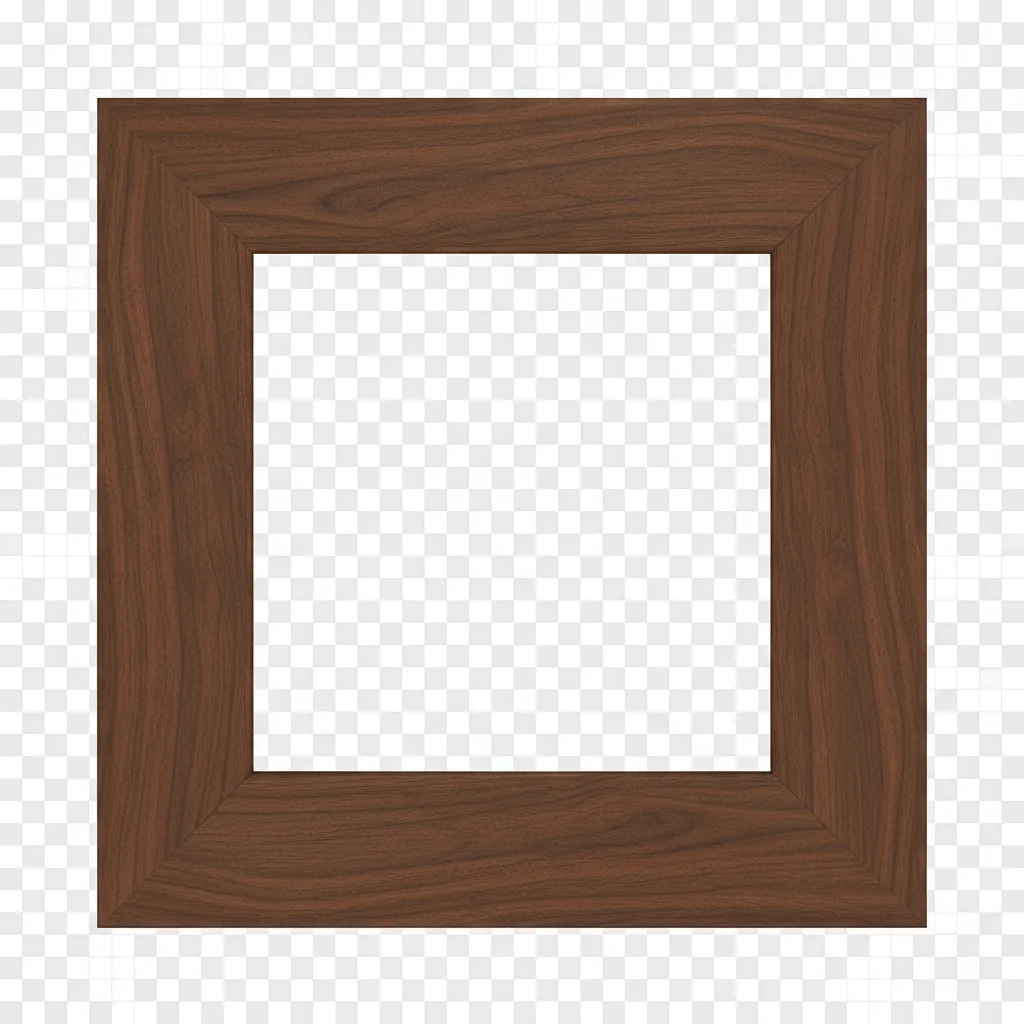
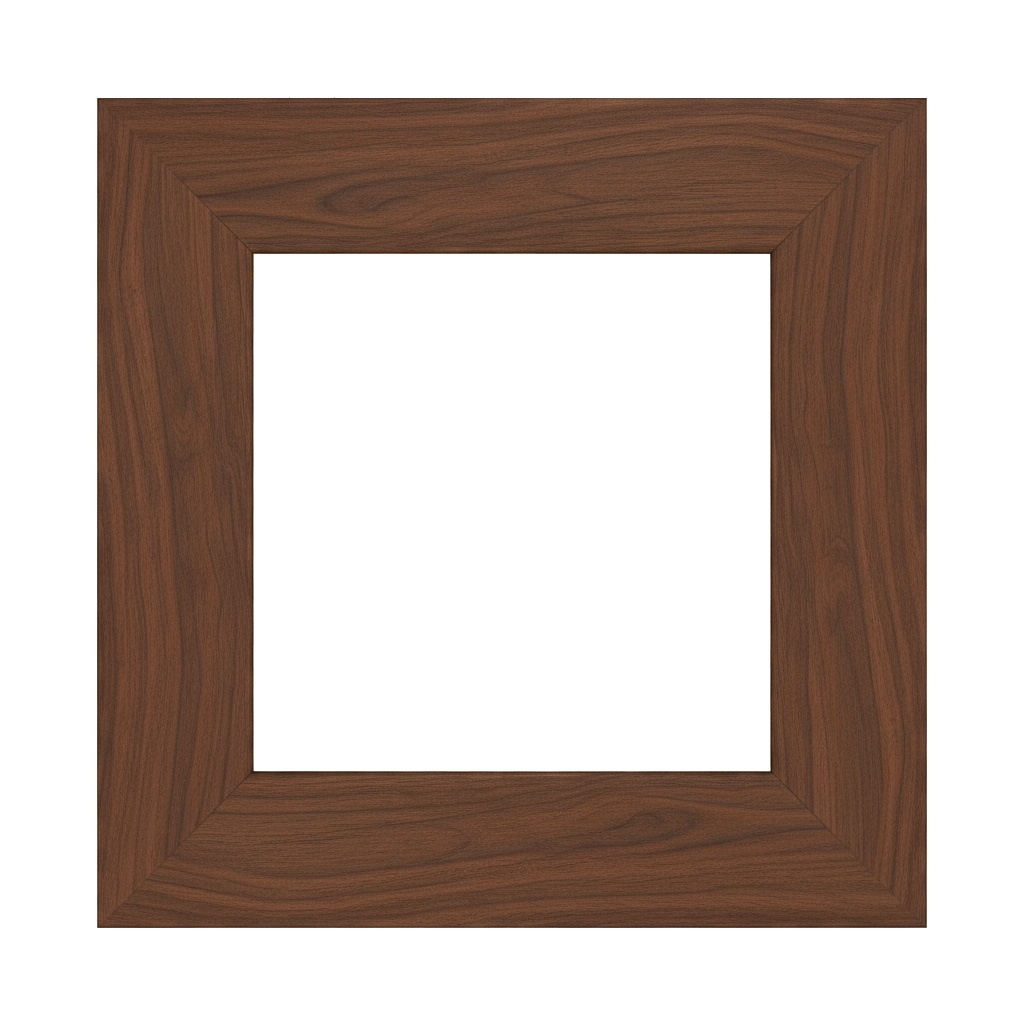
fix: フレーム/ワッペン画像の透過を復活 (元画像が不透明 RGB だったため中央が覆われていた)
原因:
  img/frames/*.png が 8-bit RGB (アルファ無し) で保存されており、さらに
  WebP 化時も VP8 (非ロスレス・アルファ無し) でエンコードされていた。
  結果として canvas でフレームを overlay したとき、フレーム全面 (特に
  中央の "アート領域") がすべて不透明になりアート画像を覆い隠していた。

修正:
  - Python / Pillow で img/frames/*.png を RGBA に変換し、輝度 (lum) が
    200 以上の pixel を完全透明 (0,0,0,0) に色キー処理。
  - 処理済み PNG を cwebp -lossless -alpha_q 100 で再エンコード。
    結果の .webp は VP8L (ロスレス+アルファ) になり、フレーム本体だけが
    不透明で残り、中央と外周は透明。

確認:
  frame-wood.webp 中央 (512,512) → alpha 0 (透明)
  frame-wood.webp 木目部分 (150,150) → alpha 255 (不透明)
  wappen-laurel-navy.webp 中央 → alpha 0, 月桂樹部分 → alpha 255

Changed region(s): [[0.0625, 0.9062, 0.0938, 0.9375]]

diff --git a/upload.html b/upload.html
@@ -38,9 +38,9 @@
     <meta http-equiv="Pragma" content="no-cache" />
     <meta http-equiv="Expires" content="0" />
     <!-- ビルド情報 (キャッシュ確認用): ConsoleでdeerBuildと打てば表示 -->
-    <meta name="deer-build" content="frame-composite-dataurl" />
+    <meta name="deer-build" content="frame-alpha-regen" />
     <script>
-      window.deerBuild = "frame-composite-dataurl";
+      window.deerBuild = "frame-alpha-regen";
       // 5 分に 1 回、本番 HTML の build marker と比較して古くなっていれば自動リロード。
       // 長時間タブを開きっぱなしのお客様が古い JS のまま操作してエラーを踏む事故を防ぐ。
       (function () {
@@ -5955,7 +5955,7 @@
         }
       }
 
-      function buildFrameOptions() {
+      async function buildFrameOptions() {
         // step-preview (旧) と step-text-order (現行) の両方に同じオプションを描画。
         // 旧 step-preview は getActiveSteps() で除外されているが DOM 自体は残っている。
         // プライマリは text-order 側の #frameOptionsGridTextOrder。
@@ -5977,11 +5977,27 @@
           if (g) g.innerHTML = html;
         });
 
-        const rawUrl =
-          state.rawArtUrl || state.generatedArtUrl || state.finalArtUrl;
-        if (rawUrl) {
-          FRAME_OPTIONS.forEach((f) => renderFrameThumb(f, rawUrl));
+        // アート URL を取得して、可能なら data URL 化してから renderFrameThumb に渡す。
+        // Image の crossOrigin ロードはブラウザキャッシュが CORS 無しレスポンスを
+        // 握っていると失敗するため、fetch()→blob→FileReader の data URL 経路で回避する。
+        let rawUrl =
+          state.rawArtDataUrl ||
+          state.finalArtDataUrl ||
+          state.rawArtUrl ||
+          state.generatedArtUrl ||
+          state.finalArtUrl;
+        if (!rawUrl) return;
+        if (
+          !rawUrl.startsWith("data:") &&
+          typeof fetchAsDataUrlSafe === "function"
+        ) {
+          const dataUrl = await fetchAsDataUrlSafe(rawUrl);
+          if (dataUrl) {
+            rawUrl = dataUrl;
+            if (!state.rawArtDataUrl) state.rawArtDataUrl = dataUrl;
+          }
         }
+        FRAME_OPTIONS.forEach((f) => renderFrameThumb(f, rawUrl));
       }
 
       // ============================================================
